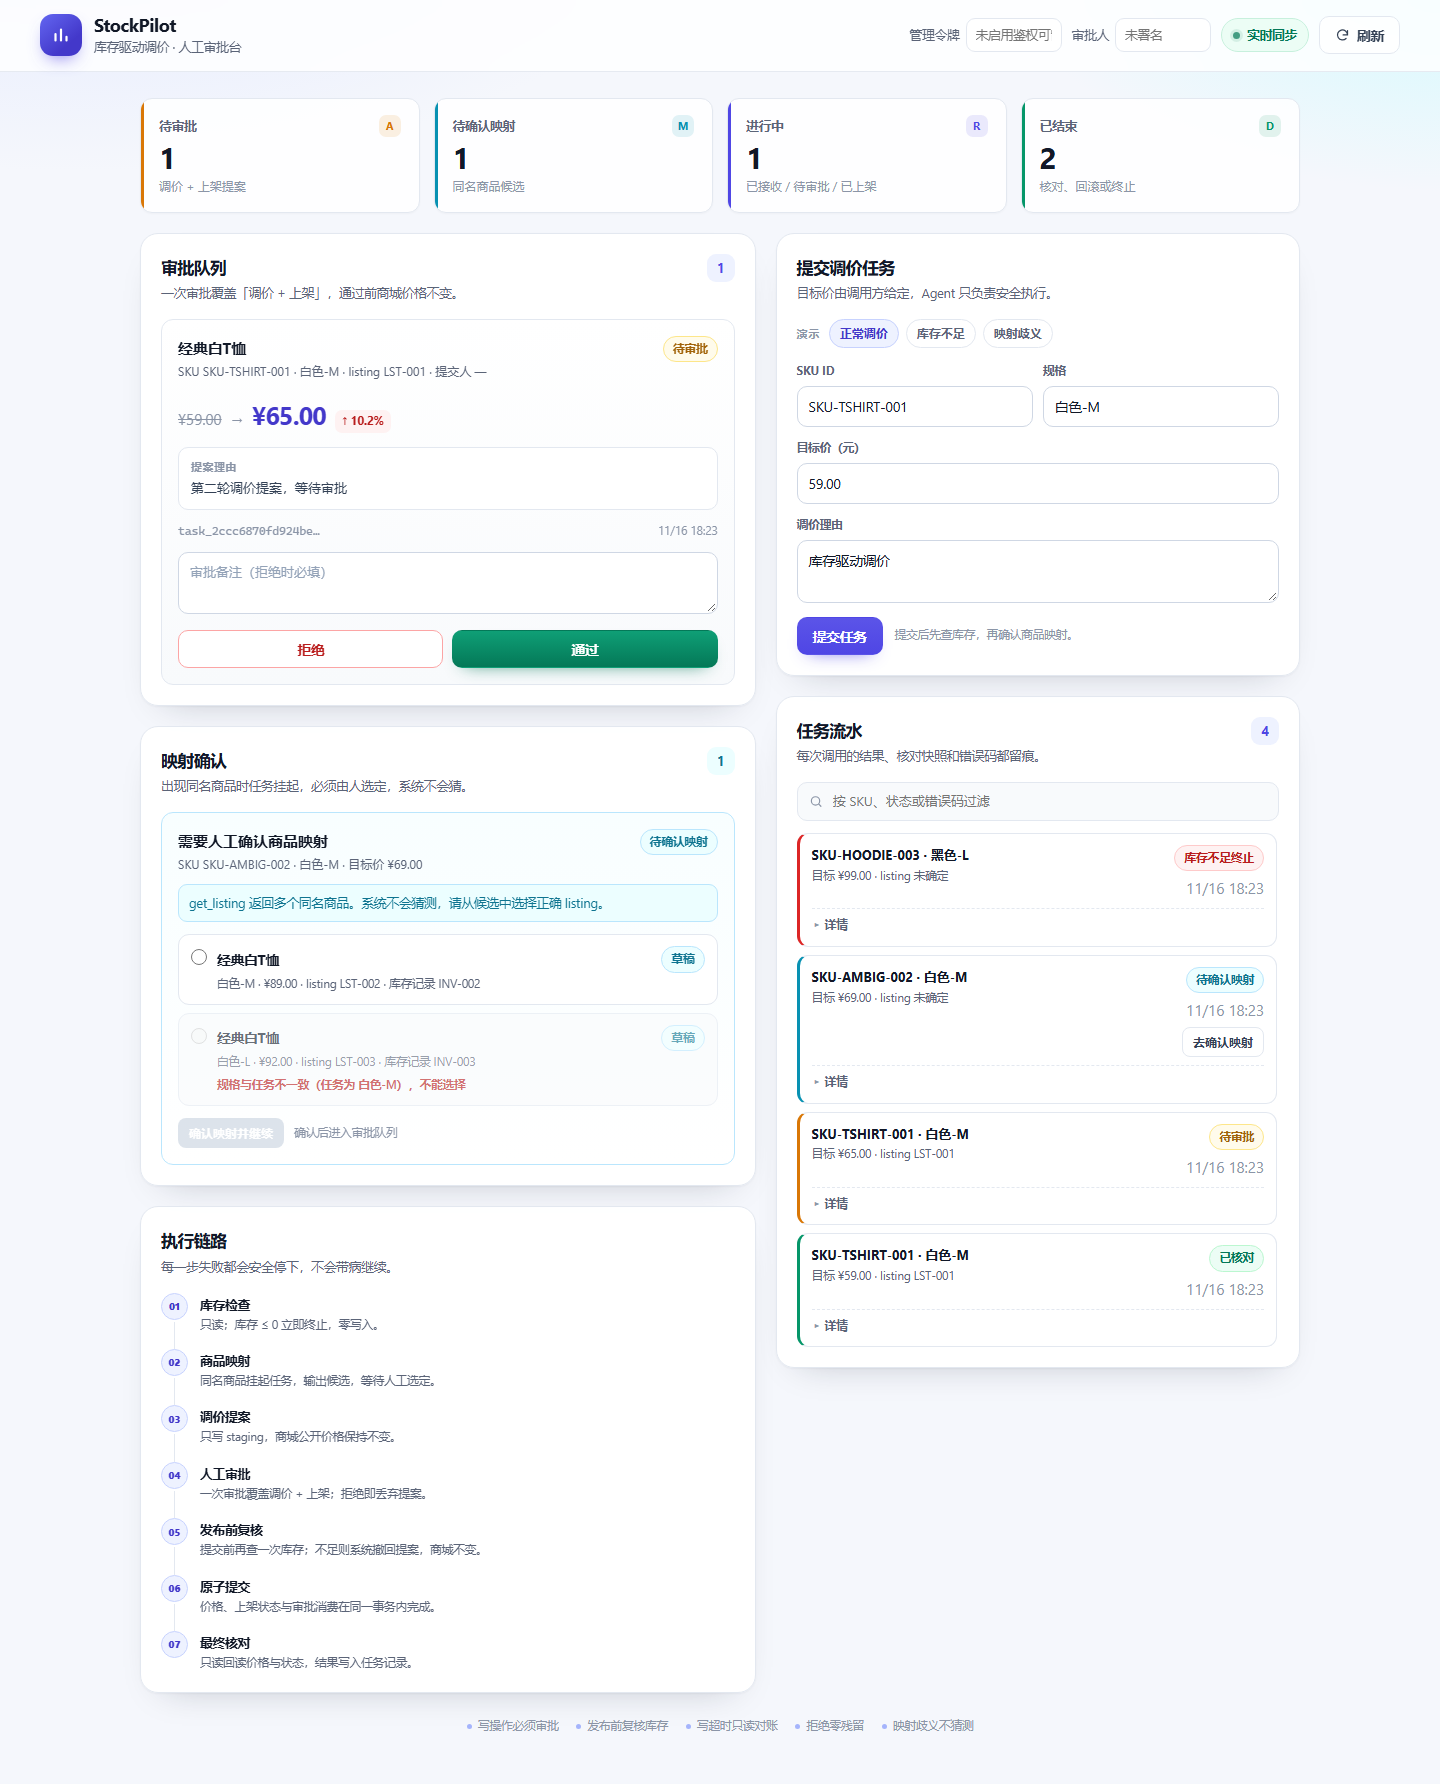
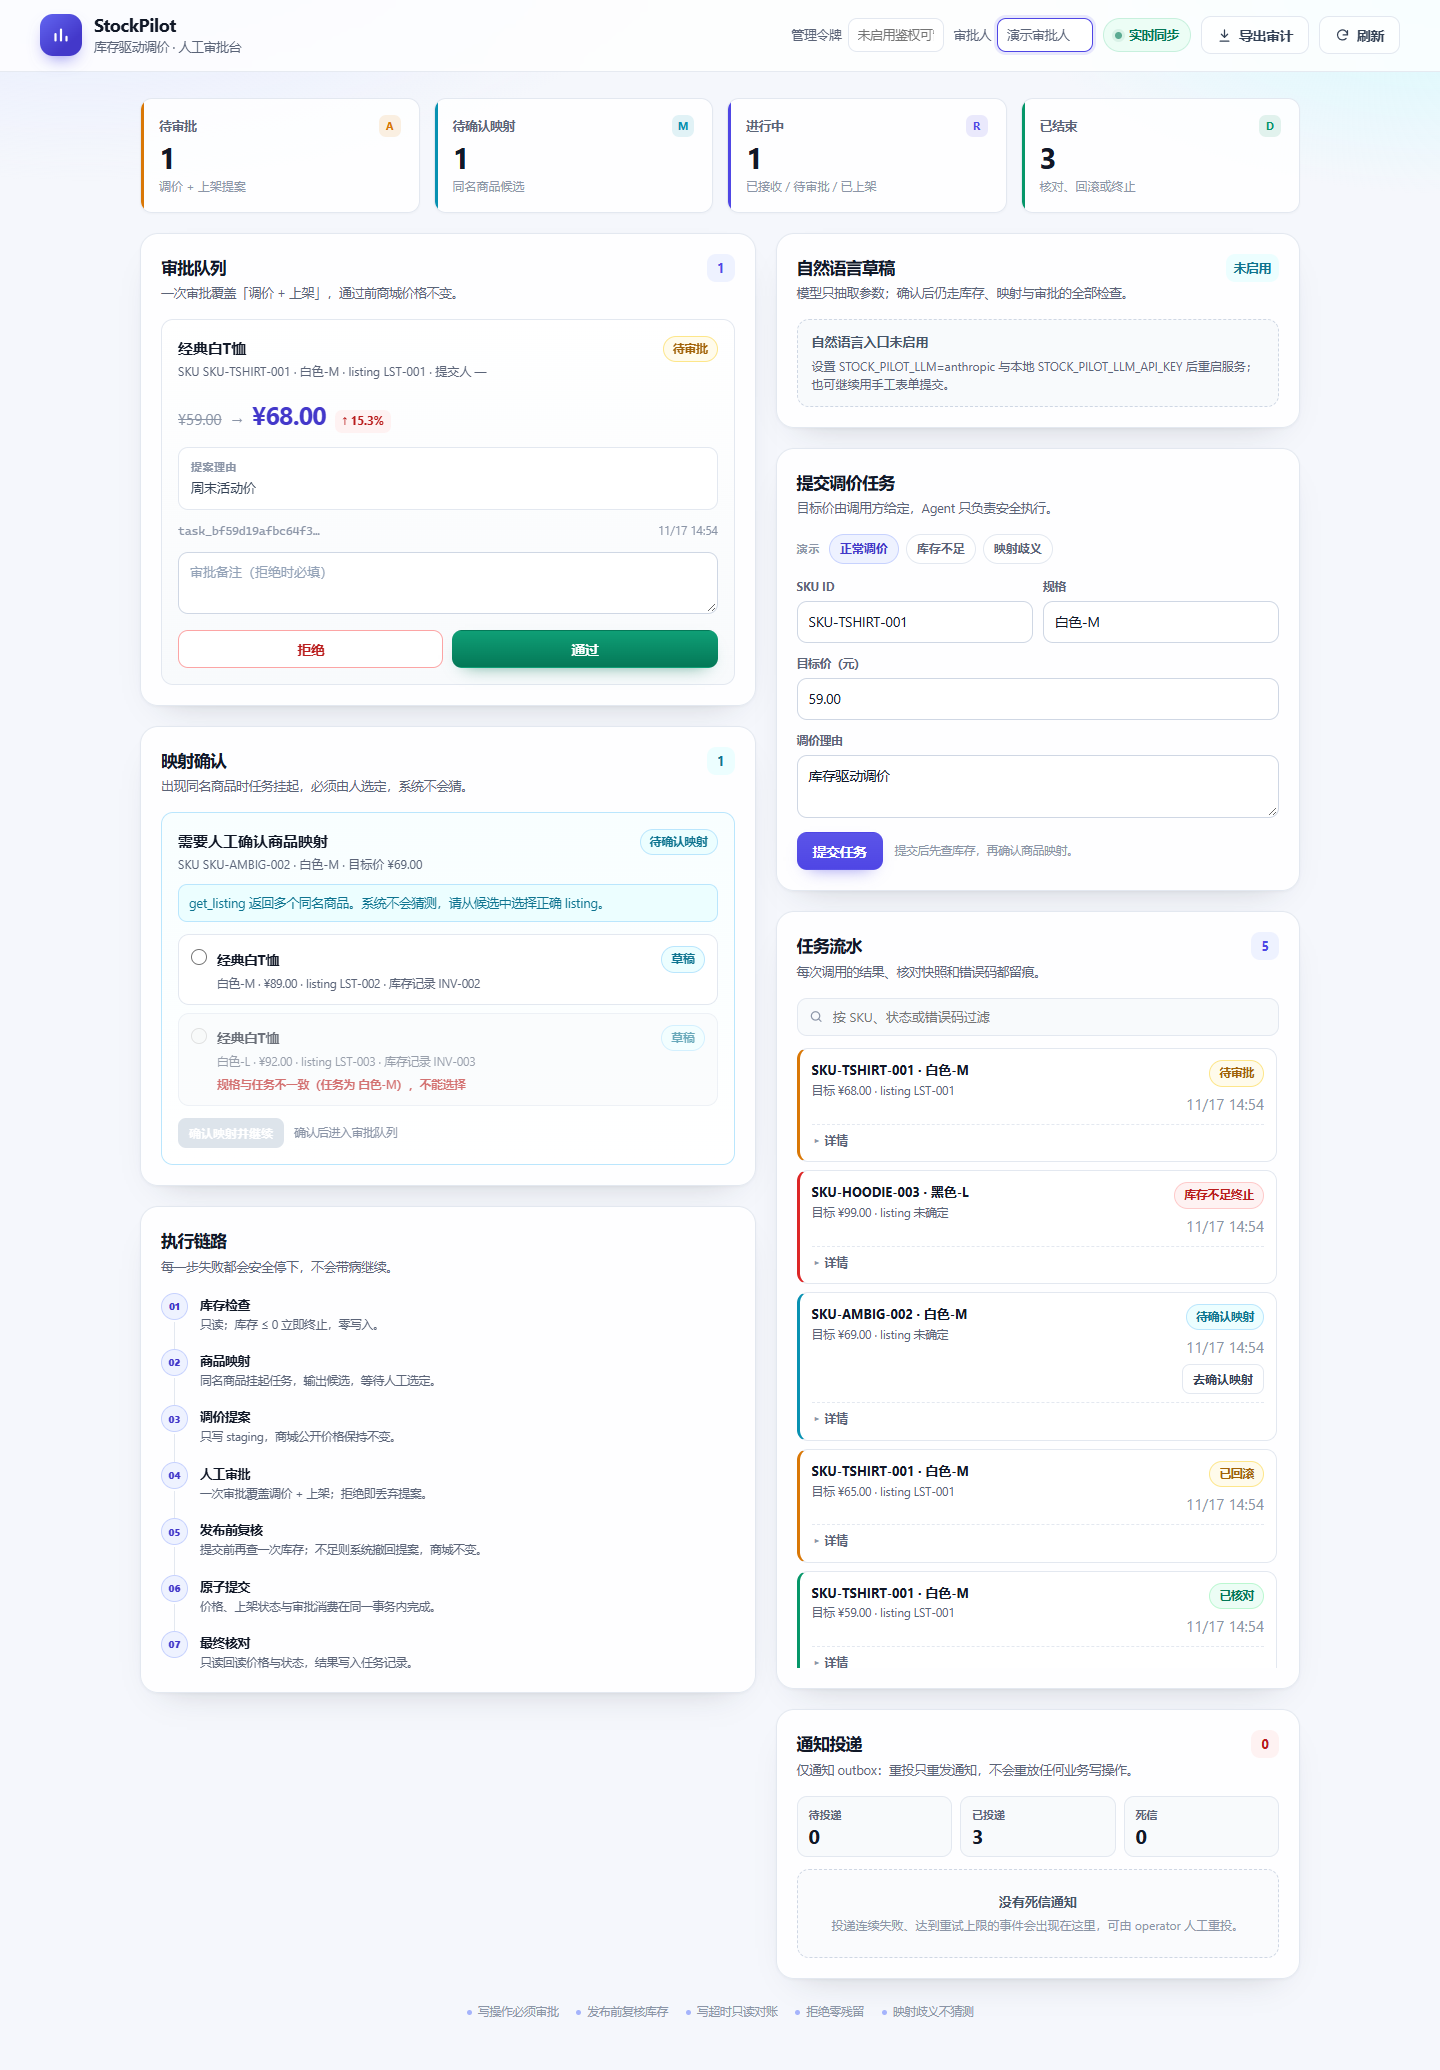
docs: refresh the console screenshot for v0.1.0
Capture the approval console with a verified change, a pending approval, a
rolled-back proposal, an ambiguous mapping, and a no-stock termination. The
new panels for intake, audit export, and outbox delivery are visible. Add the
v0.1.0 changelog.

diff --git a/CHANGELOG.md b/CHANGELOG.md
@@ -1,0 +1,79 @@
+# Changelog
+
+All notable changes to StockPilot are documented here. The format follows
+[Keep a Changelog](https://keepachangelog.com/en/1.1.0/) and the project uses
+[Semantic Versioning](https://semver.org/spec/v2.0.0.html).
+
+## [0.1.0] - 2026-11-17
+
+First public, interview-ready release. The core promise: a constrained
+inventory-driven repricing chain that stops before any uncertain write and
+requires human approval for every price/publish change.
+
+### Added
+
+- MCP tool contract with four model-facing tools: `check_inventory`,
+  `get_listing`, `update_price`, and `publish_listing`.
+- LangGraph state machine:
+  `check_stock → resolve_listing → stage_price → await_approval → recheck_stock
+  → publish → verify`.
+- Two-phase approval commit: `update_price` writes staging + approval in one
+  transaction; `publish_listing` commits price, listing status, and approval
+  consumption atomically.
+- Ambiguous listing handling: tasks suspend with candidate listings and never
+  guess; a human confirms the mapping.
+- Read-only reconciliation after write timeouts; no write is ever replayed.
+- Publish-time inventory recheck plus a final in-transaction stock gate.
+- Restart recovery: `GET /recovery` reports interrupted states,
+  `POST /tasks/{id}/recover` continues only approved work or re-verifies a
+  committed task.
+- Idempotent task submission (`Idempotency-Key`) and idempotent approval
+  decisions.
+- Real MCP transports: stdio and two split Streamable HTTP servers with
+  static Bearer-token roles.
+- Split store layout: orchestrator / inventory / mall SQLite files with an
+  internal reservation saga and a conservative reservation sweep.
+- Notification-only outbox with at-least-once delivery, webhook sender,
+  dead-lettering, retention pruning, and an operator retry that cannot re-drive
+  a business write.
+- Prometheus metrics, JSON structured logging, MCP session ping/reconnect, and
+  `/healthz` readiness.
+- Optional natural-language intake: model extracts parameters only, the draft
+  is never persisted, and confirmation re-runs every guard.
+- Approval console: queue, mapping confirmation, task trail, recovery panel,
+  intake draft panel, audit export, and notification delivery panel.
+- Read-only audit export across orchestrator and mall stores, with no
+  credentials or notification payloads.
+- Per-identity, process-local rate limiting for the model-backed intake
+  endpoint (`429` + `Retry-After`, no model call on rejection).
+- One-command demo launcher with seeded data, optional split topology, and a
+  fresh-database switch.
+
+### Safety invariants
+
+- Inventory ≤ 0 terminates before any write.
+- Ambiguous mappings suspend the task; the system never chooses a listing.
+- Every price/publish write requires an approval decision.
+- A rejected or abandoned proposal leaves no staged price and no mall write.
+- An uncertain write stops the chain and permits at most one read-only
+  reconciliation.
+- The notification worker holds no tool client.
+
+### Verification
+
+- 176 tests cover the tool contract, agent graph, API, UI assets, MCP stdio and
+  HTTP transports, auth, concurrency, recovery, split stores, reservations,
+  outbox, webhook, intake, rate limiting, and audit export.
+- `ruff check src tests` passes.
+- GitHub Actions runs Ubuntu and Windows against Python 3.10 and 3.12.
+
+### Known limitations
+
+- SQLite is a single-instance demo store, not a distributed database.
+- Static Bearer tokens are demo-grade identity; OIDC is not included.
+- Intake rate limiting is per process, not a shared quota.
+- Metrics and JSON logs are implemented but not wired to an alerting or log
+  aggregation platform.
+- The optional intake provider is Anthropic-only.
+
+[0.1.0]: https://github.com/xiaoqingxu271/stock_pilot/releases/tag/v0.1.0

diff --git a/README.md b/README.md
@@ -29,14 +29,18 @@ curl -s localhost:8000/metrics | grep reservations
 curl -s localhost:8000/reservations          # 只读列出存活预留
 curl -s -X POST localhost:8000/reservations/gc   # operator 清理（无 Token 时本地开放）
 curl -s 'localhost:8000/outbox?status=dead'  # 只读查看死信通知
+curl -s localhost:8000/outbox/summary        # 待投递 / 已投递 / 死信计数
 curl -s -X POST localhost:8000/outbox/1/retry    # operator 重投死信（不重放写操作）
+curl -s localhost:8000/audit/export          # operator 只读审计快照
 ```
 
 ![StockPilot 审批台](docs/screenshots/console.png)
 
-页面左侧是审批队列、映射确认与执行链路；右侧提交任务并查看任务流水。截图对应：
-一次已通过的调价（¥59）、一个等待审批的第二轮提案（¥65）、一个因同名商品挂起的
-映射任务，以及一个库存为零直接终止的任务。
+页面左侧是审批队列、映射确认与执行链路；右侧是自然语言草稿、手工提交、任务流水
+与通知投递。截图对应：一次已核对（¥59）、一个等待审批的第二轮提案（¥68）、一个
+被拒绝回滚的提案（¥65）、一个因同名商品挂起的映射任务、一个库存为零直接终止的
+任务，以及已投递 3 条通知、死信为 0 的 outbox 面板。自然语言面板在未配置模型时
+显示关闭说明；顶栏可直接导出审计 JSON。
 
 ## 安全保证
 
@@ -273,6 +277,7 @@ tests/            验收、单元、API、UI、MCP、鉴权、恢复
 
 ## 文档
 
+- `CHANGELOG.md`：`v0.1.0` 能力清单、安全不变量与已知限制。
 - `docs/interview-notes.md`：3 分钟叙述、11 个高频追问、失败矩阵与已知边界。
 - `docs/demo.md`：约 8 分钟的面试演示脚本，含失败路径与拆分/鉴权演示。
 - `docs/screenshots/console.png`：审批台截图（演示数据：待审批 / 映射歧义 / 已核对 / 库存终止）。
